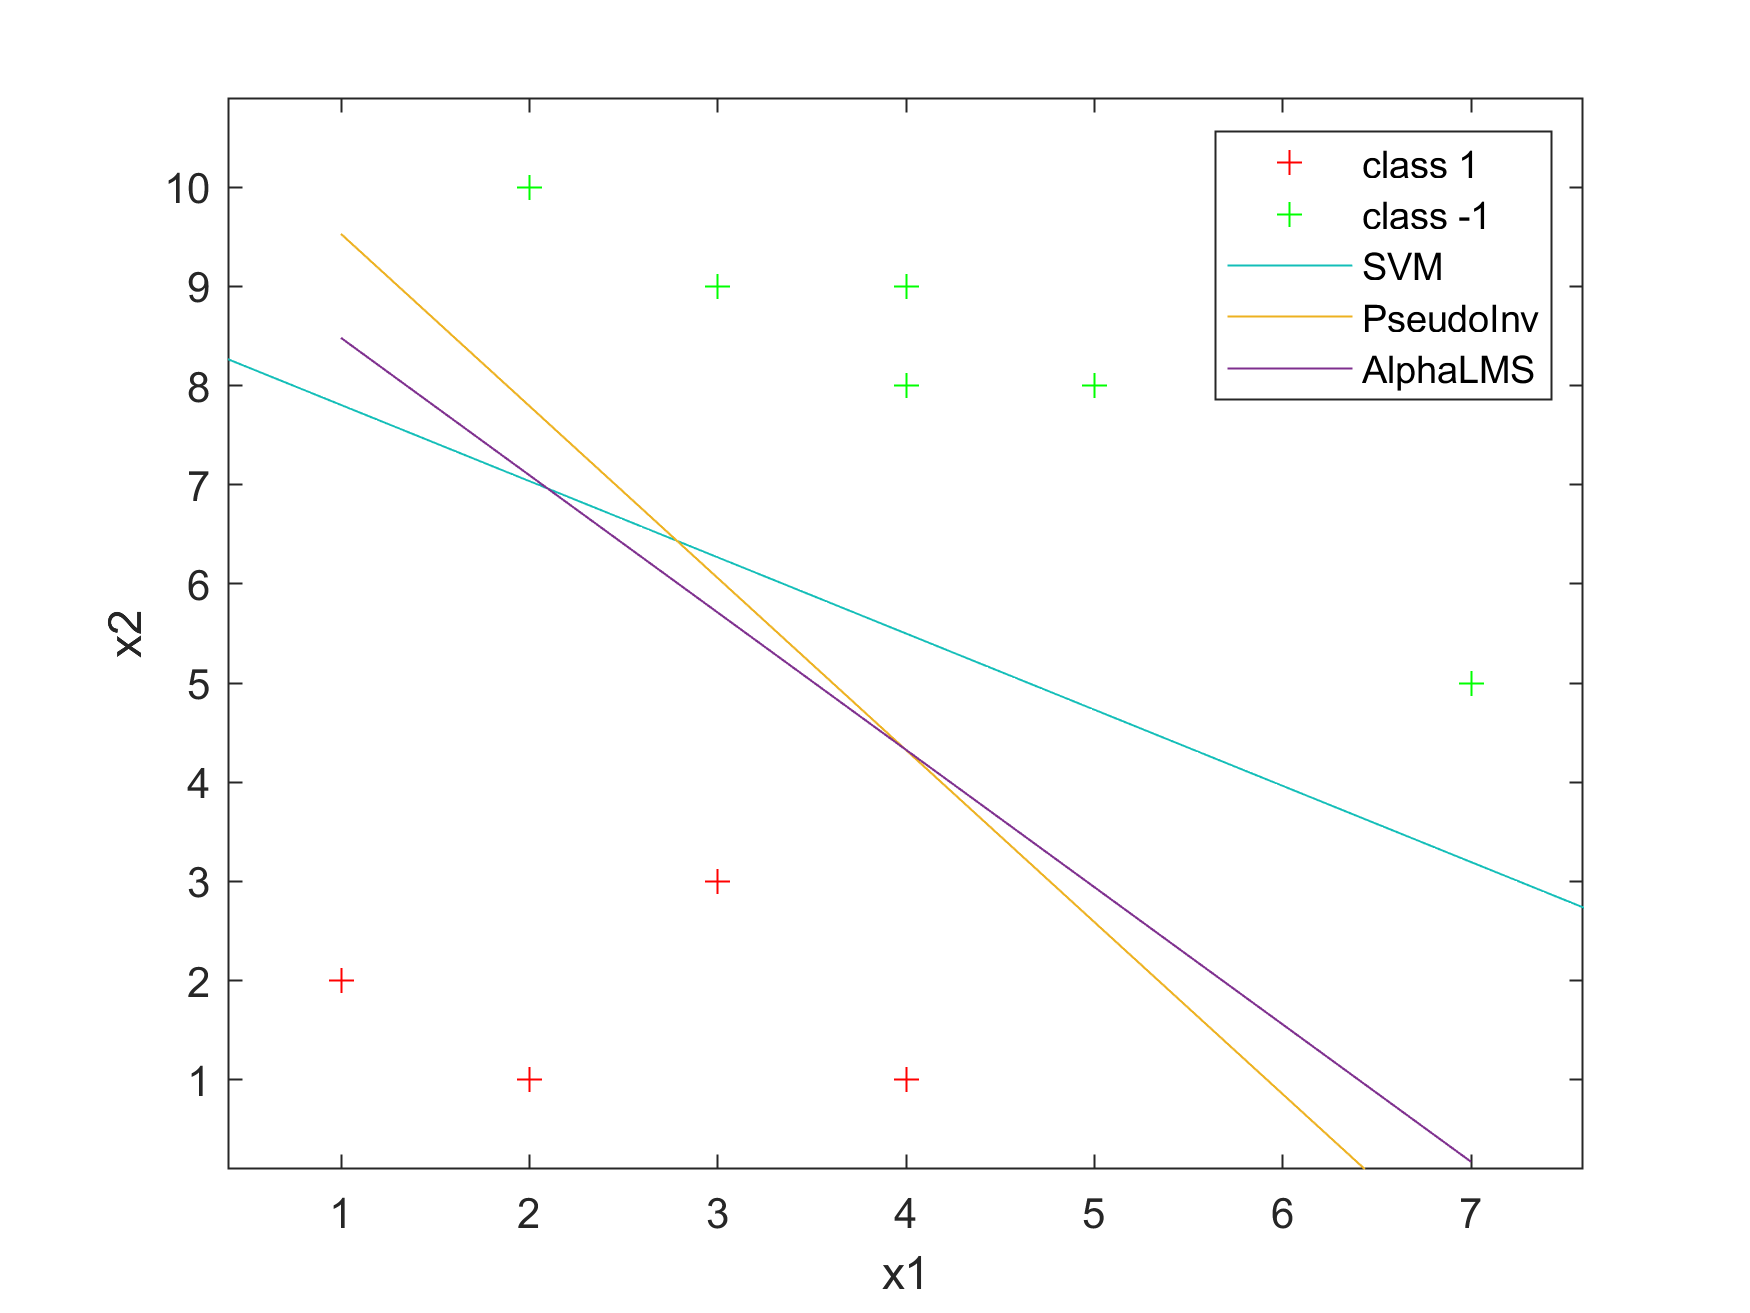
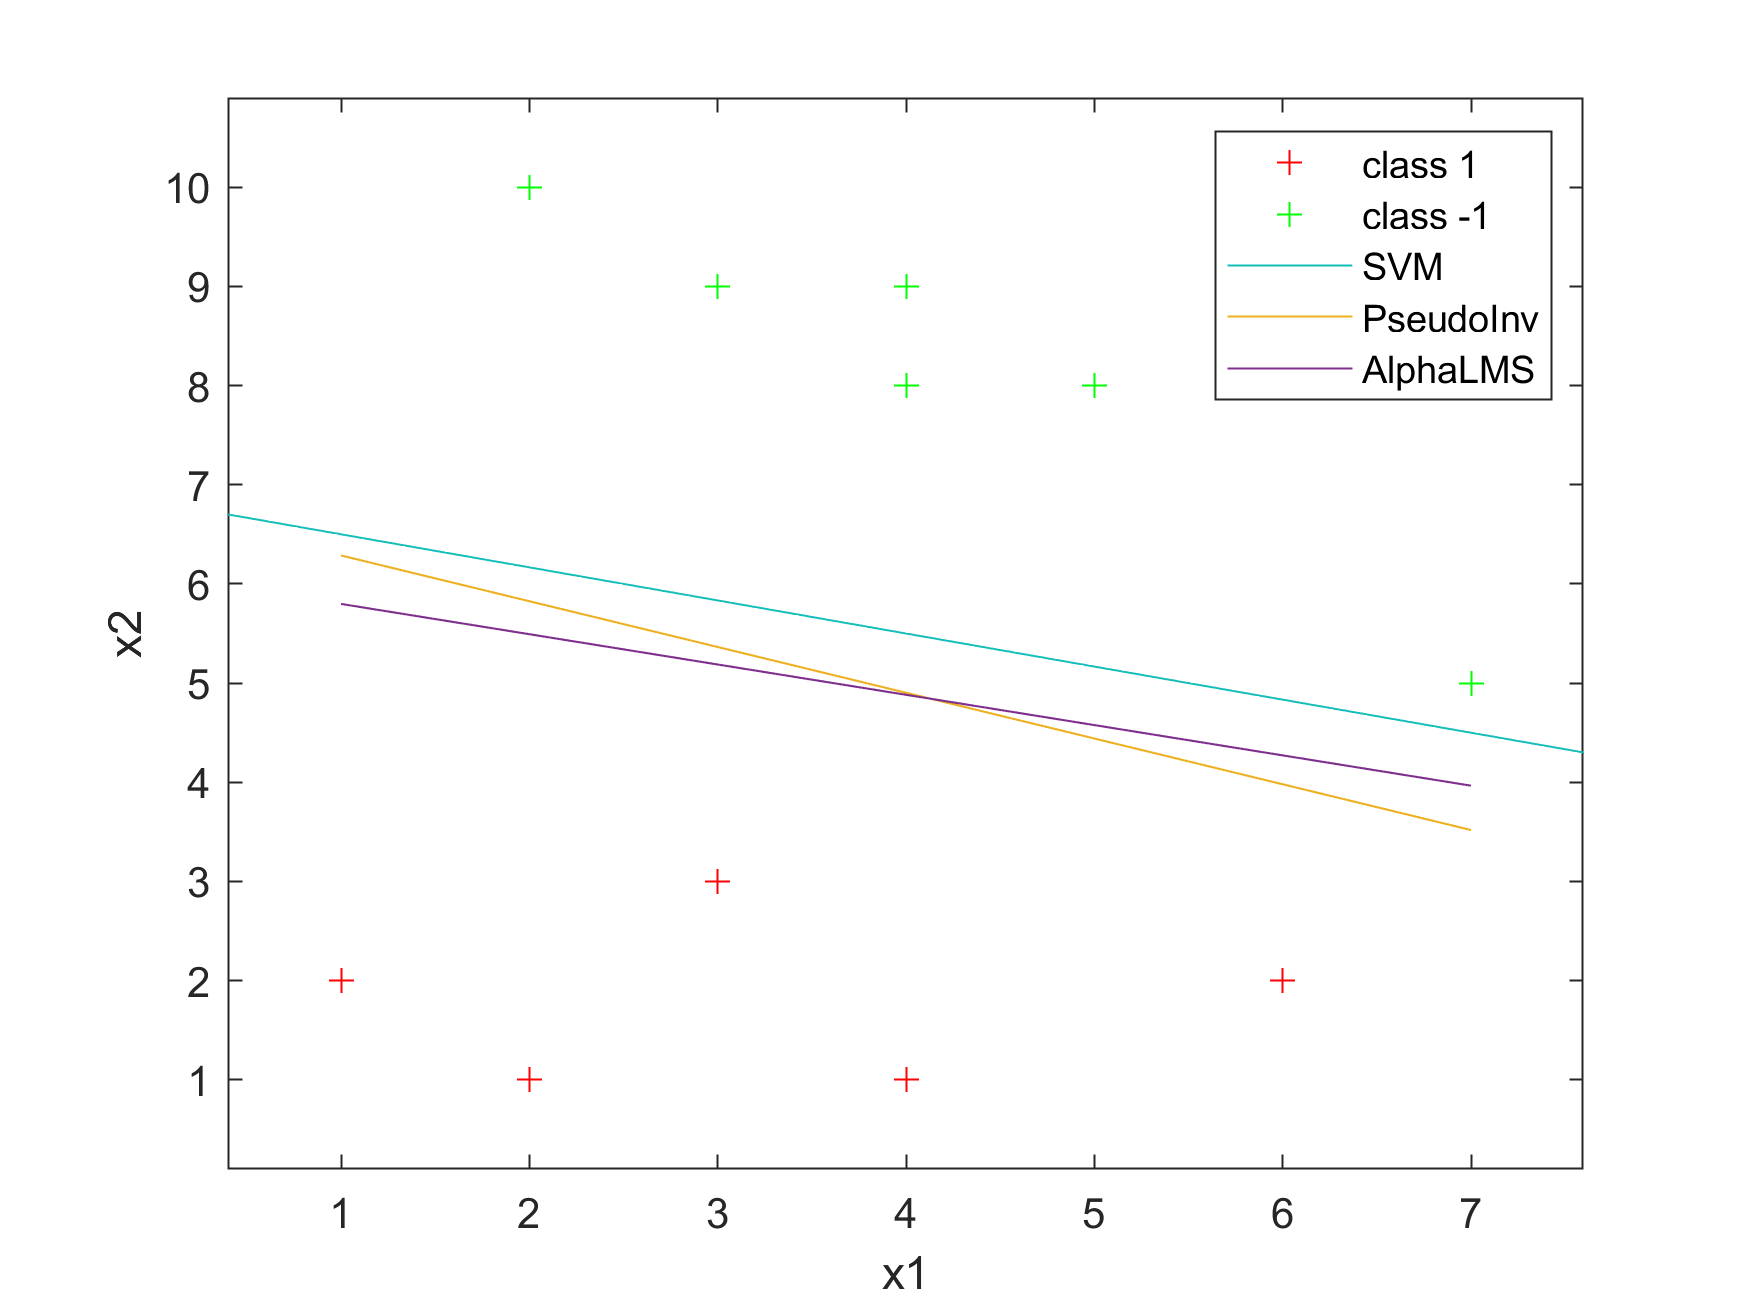
Updated linear_comp with linearly separable dataset

diff --git a/code/octave/linear_comp_small.m b/code/octave/linear_comp_small.m
@@ -1,9 +1,19 @@
-% input values
-x = [1,2,3,4,4,2,3,4,5,6,7,6;2,1,3,1,9,10,9,8,8,9,5,2];
-x = x';
-% class values (vector with k columns
-d = [1,1,1,1,1,-1,-1,-1,-1,-1,-1,-1];
-d = d';
+x = [
+    1,2;
+    2,1;
+    3,3;
+    4,1;
+    6,2;
+    4,9;
+    2,10;
+    3,9;
+    4,8;
+    5,8;
+    6,9;
+    7,5;
+];
+% class values
+d = [1;1;1;1;1;-1;-1;-1;-1;-1;-1;-1];
 % calculate x1 min
 xl=min(x(:,1));
 % calculate x1 max
@@ -18,7 +28,7 @@ w = Madalin_nn(x', d');
 set_global_weight(weight);
 set_global_bias(bias);
 % plot x inputs with decision boundary
-plot(x(1:4, 1), x(1:4, 2), 'r+', x(5:11, 1), x(5:11, 2), 'g+');
+plot(x(1:5, 1), x(1:5, 2), 'r+', x(6:12, 1), x(6:12, 2), 'g+');
 % set axis limits
 axis([xl-abs(0.1*(xu-xl)), xu+abs(0.1*(xu-xl)), yl-abs(0.1*(yu-yl)), yu+abs(0.1*(yu-yl))]);
 % label x axis
